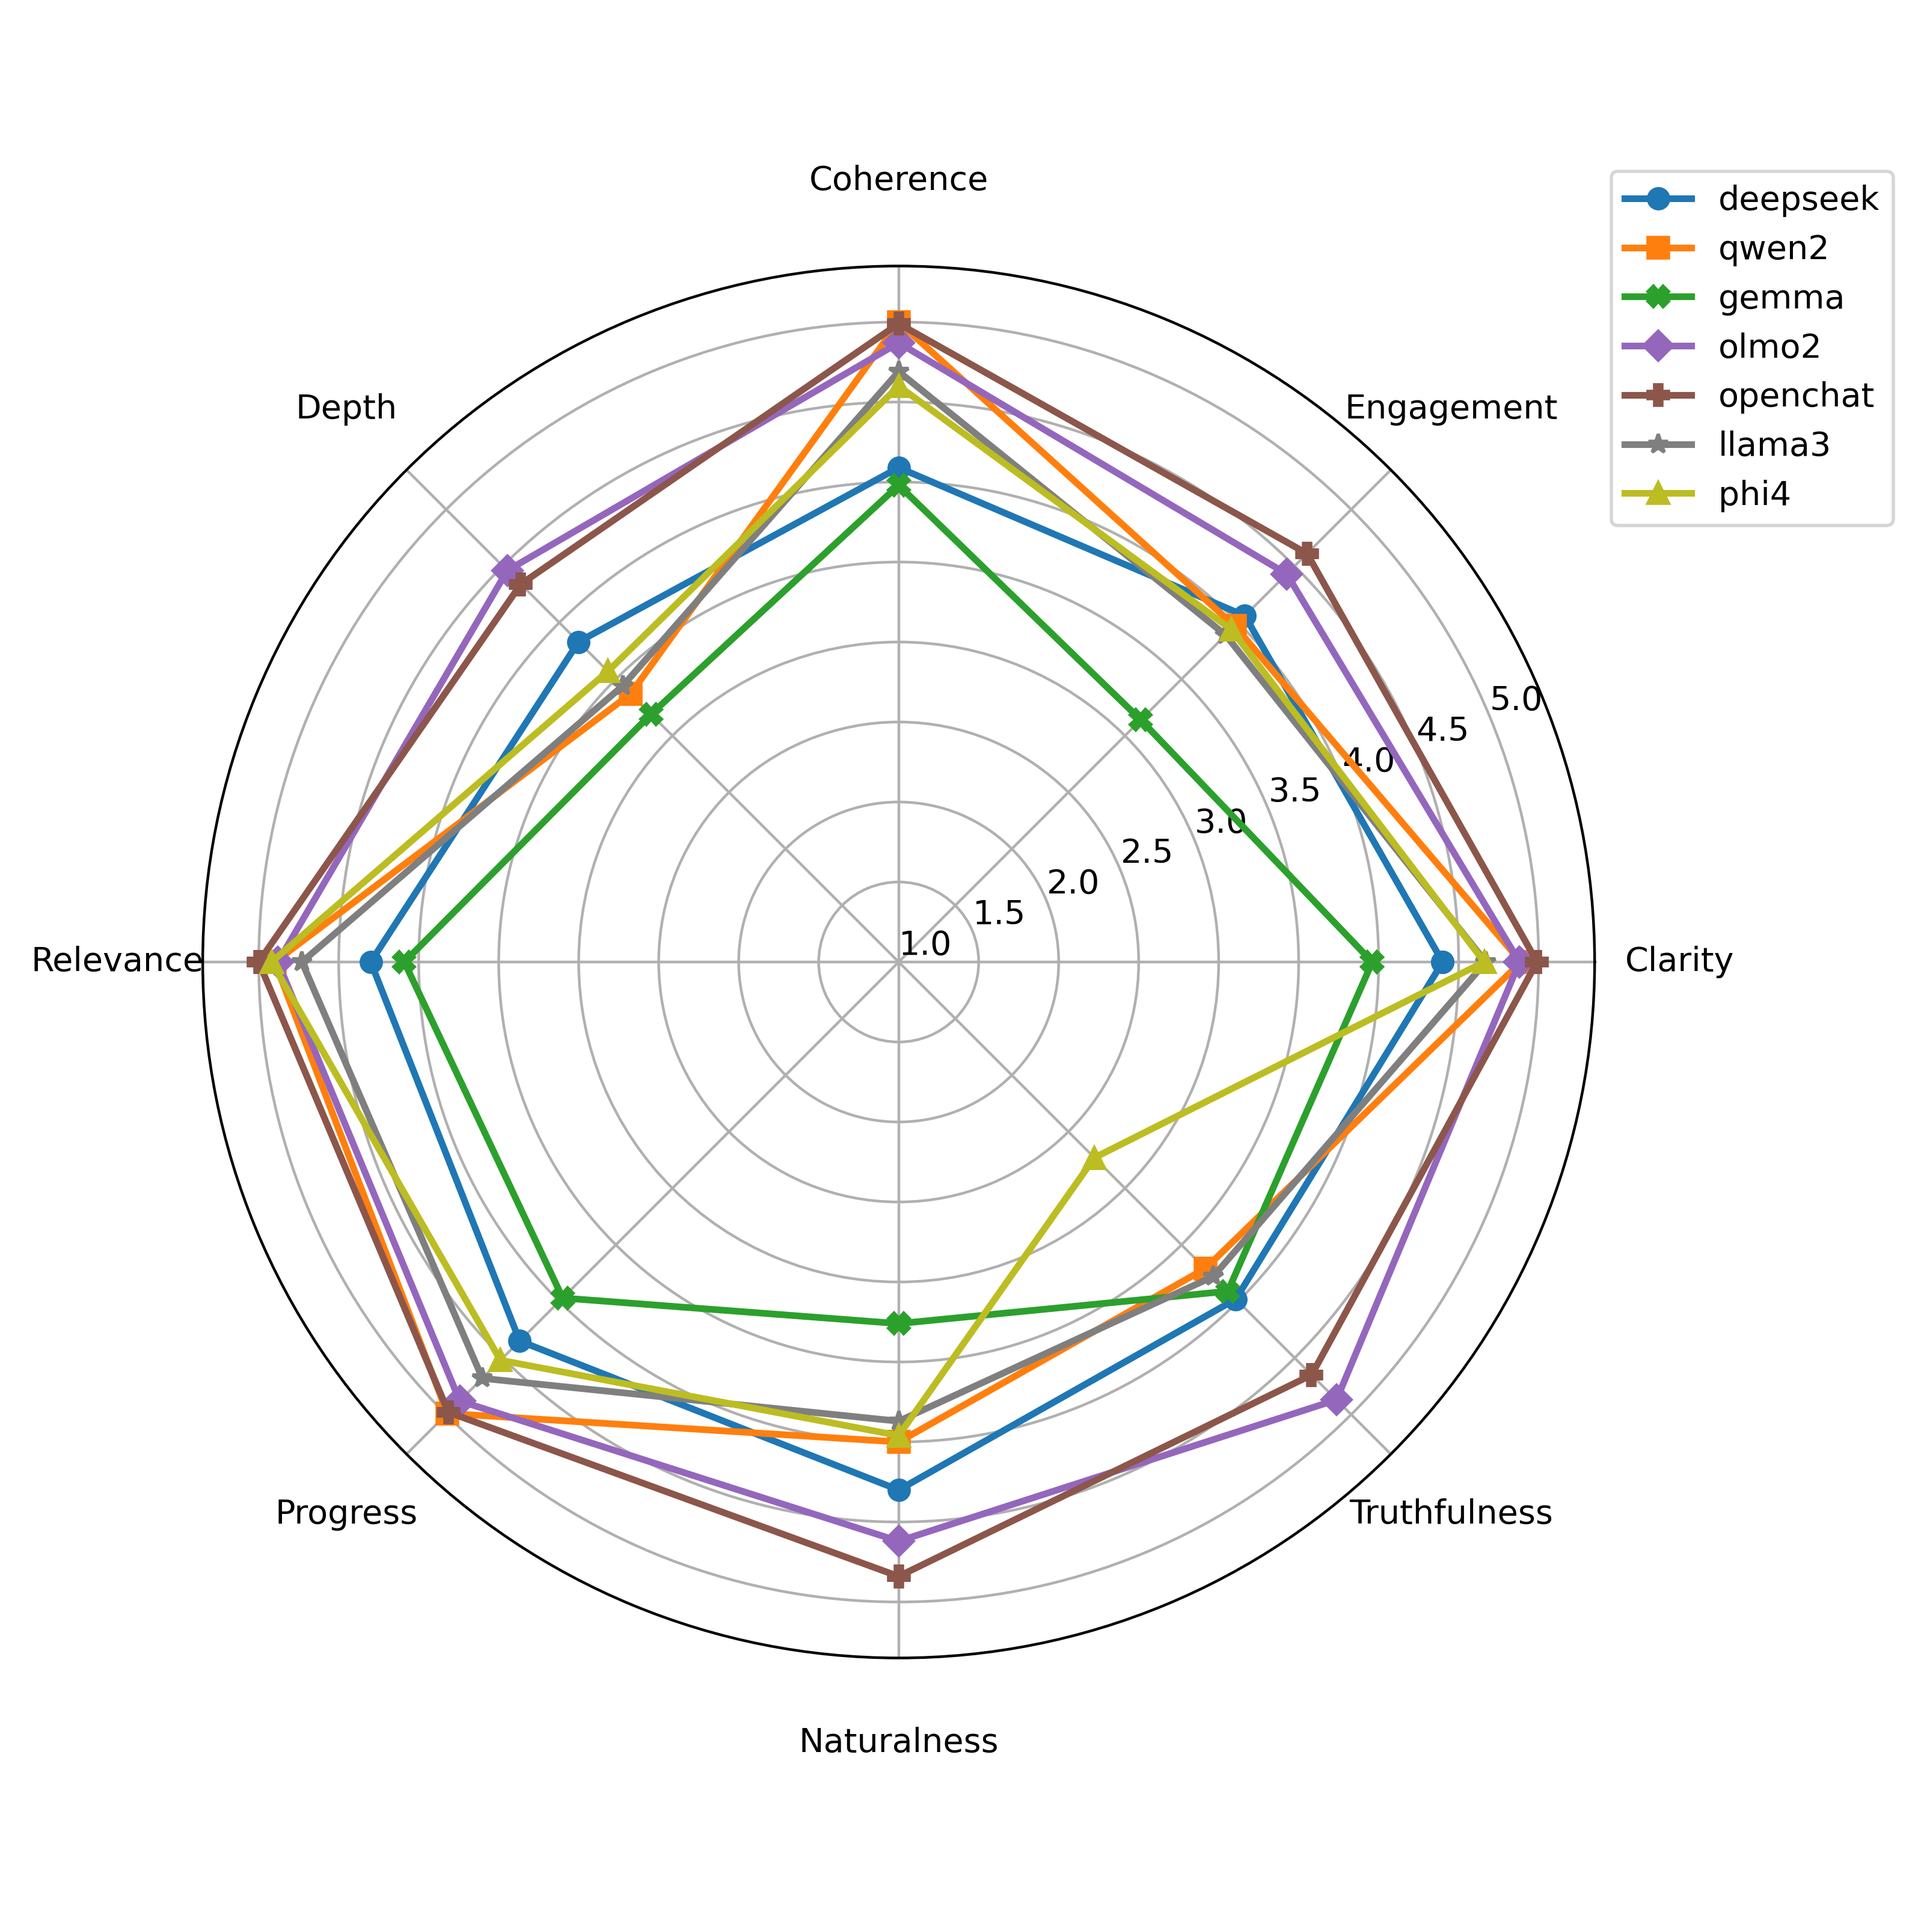
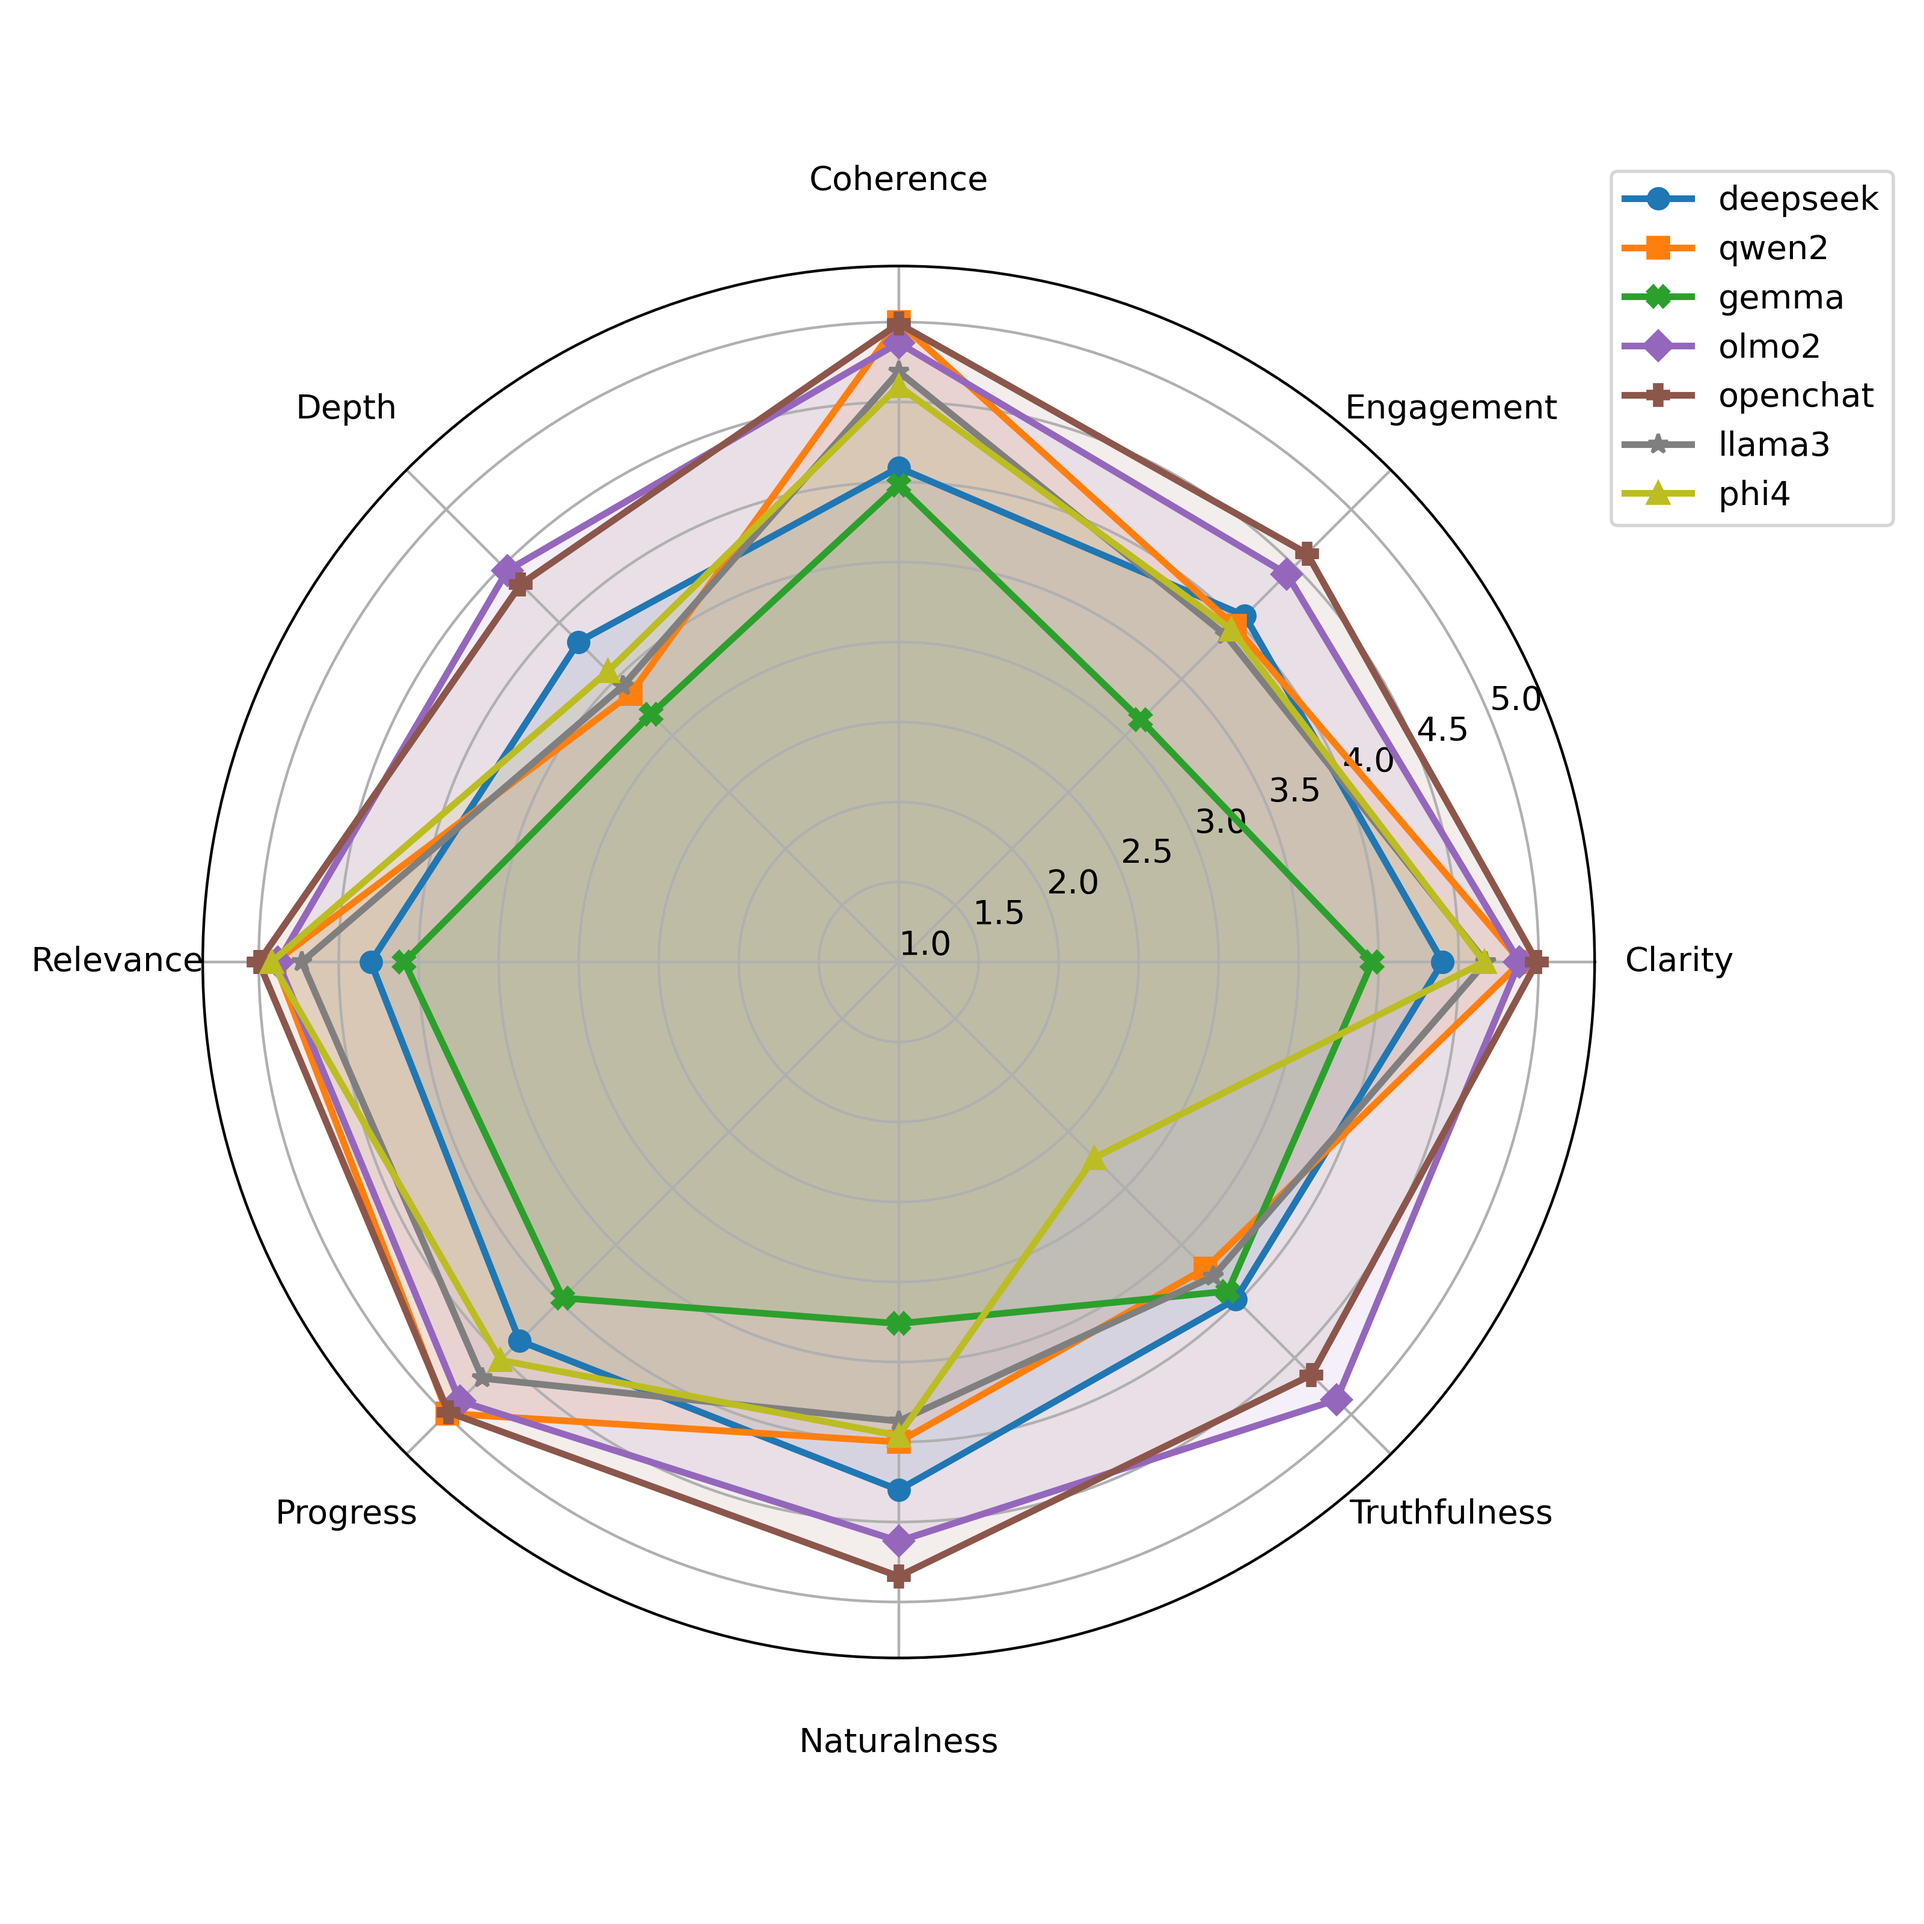
update plots

Changed region(s): [[0.1562, 0.1875, 0.7812, 0.8125]]

diff --git a/utils/plot_llm_rubric_results.py b/utils/plot_llm_rubric_results.py
@@ -47,6 +47,8 @@ def plot_llm_rubric(fpath):
         color=colors(i),
         linewidth=2,
         markersize=6)
+        # Fill area under the plot
+        ax.fill(angles, values, color=colors(i), alpha=0.1)
 
     # Add labels to radial axis
     ax.set_ylim(1, 5.35)
